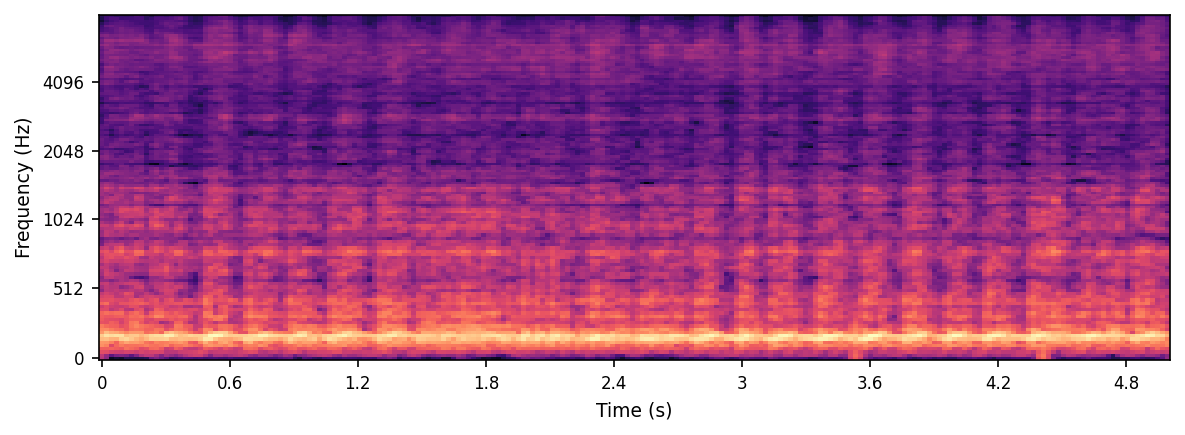
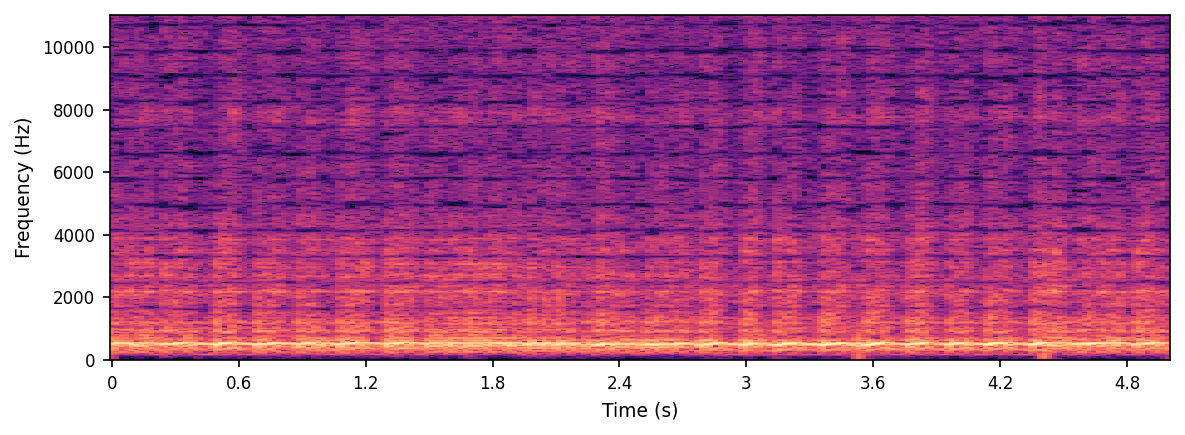
fixing issue 3

diff --git a/generate_spectrograms.py b/generate_spectrograms.py
@@ -1,5 +1,5 @@
 """
-Generate mel spectrogram PNGs for each demo sample.
+Generate STFT spectrogram PNGs for each demo sample.
 
 One PNG per sample (left channel = input audio).
 
@@ -22,14 +22,13 @@ import matplotlib.pyplot as plt
 SR         = 22050
 HOP_LENGTH = 512
 N_FFT      = 2048
-N_MELS     = 128
-FMAX       = 8000
-T_MAX      = 5.0   # 최대 표시 시간 (초)
+FMAX       = 4000   # 보컬 범위에 맞게 4kHz까지만 표시
+T_MAX      = 5.0
 
 
 def generate_spectrogram(wav_path: str, output_path: str):
     """
-    stereo WAV에서 left channel(=input audio)을 추출해 mel 스펙트로그램 PNG 저장.
+    stereo WAV에서 left channel(=input audio)을 추출해 STFT 스펙트로그램 PNG 저장.
     """
     y, _ = librosa.load(wav_path, sr=SR, mono=False)
     y_left = y[0] if y.ndim == 2 else y
@@ -37,16 +36,18 @@ def generate_spectrogram(wav_path: str, output_path: str):
     t_max = min(y_left.shape[0] / SR, T_MAX)
     y_left = y_left[:int(t_max * SR)]
 
-    S = librosa.feature.melspectrogram(
-        y=y_left, sr=SR, n_fft=N_FFT, hop_length=HOP_LENGTH,
-        n_mels=N_MELS, fmax=FMAX,
-    )
-    S_db = librosa.power_to_db(S, ref=np.max)
+    D = librosa.stft(y_left, n_fft=N_FFT, hop_length=HOP_LENGTH)
+    D_db = librosa.amplitude_to_db(np.abs(D), ref=np.max)
+
+    # FMAX 이하 빈만 잘라냄
+    bin_max = int(FMAX / (SR / 2) * (N_FFT // 2 + 1)) + 1
+    D_db = D_db[:bin_max, :]
 
     fig, ax = plt.subplots(figsize=(8, 3), dpi=150)
     librosa.display.specshow(
-        S_db, sr=SR, hop_length=HOP_LENGTH,
-        x_axis="time", y_axis="mel", fmax=FMAX,
+        D_db, sr=SR, hop_length=HOP_LENGTH,
+        x_axis="time", y_axis="linear",
+        fmax=FMAX,
         ax=ax, cmap="magma",
     )
     ax.set_xlabel("Time (s)", fontsize=9)
@@ -61,7 +62,7 @@ def generate_spectrogram(wav_path: str, output_path: str):
 
 
 def main():
-    parser = argparse.ArgumentParser(description="Generate mel spectrogram PNGs for demo page.")
+    parser = argparse.ArgumentParser(description="Generate STFT spectrogram PNGs for demo page.")
     parser.add_argument(
         "--audio_dir", default=".",
         help="Root dir containing sample subdirs (e.g. 000852_4.0/). Default: current dir"
